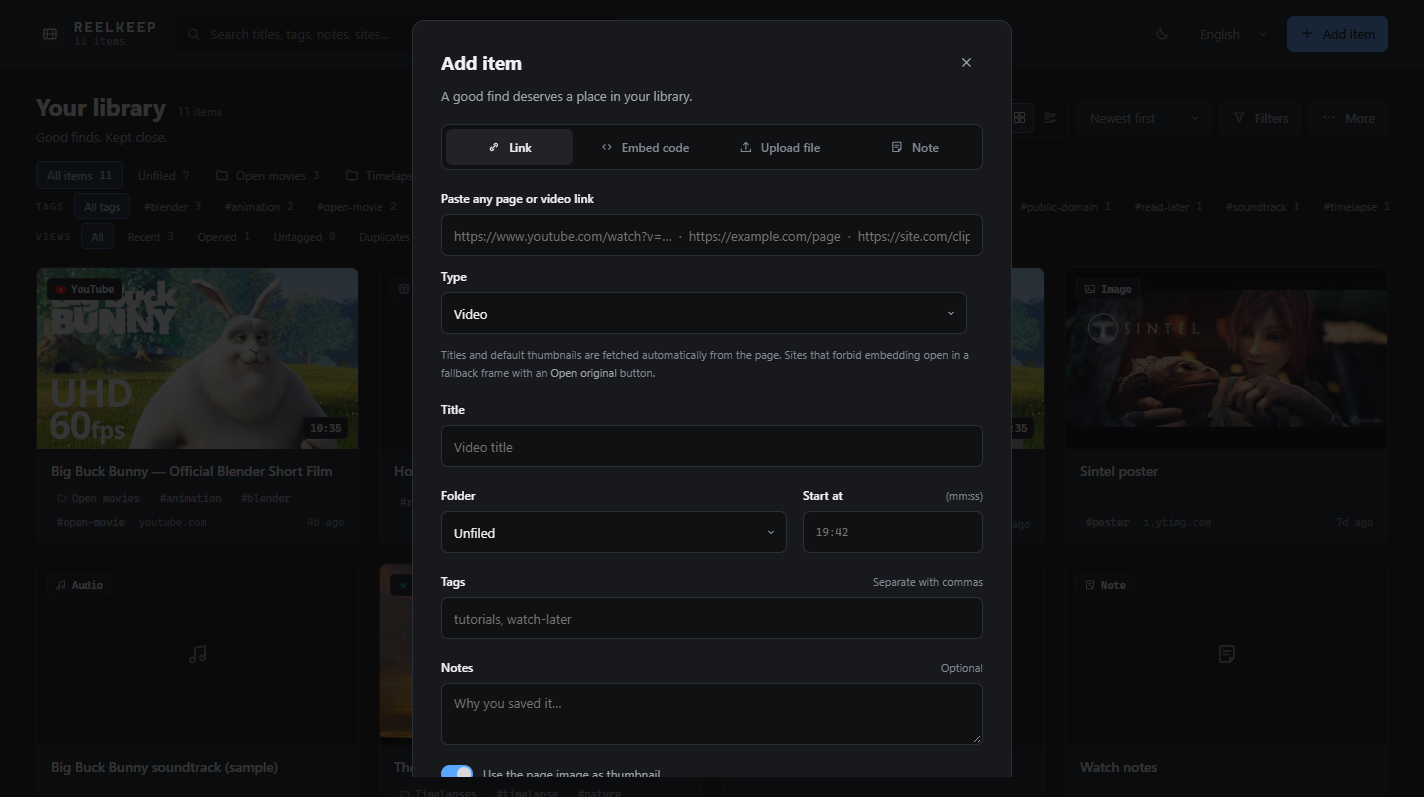
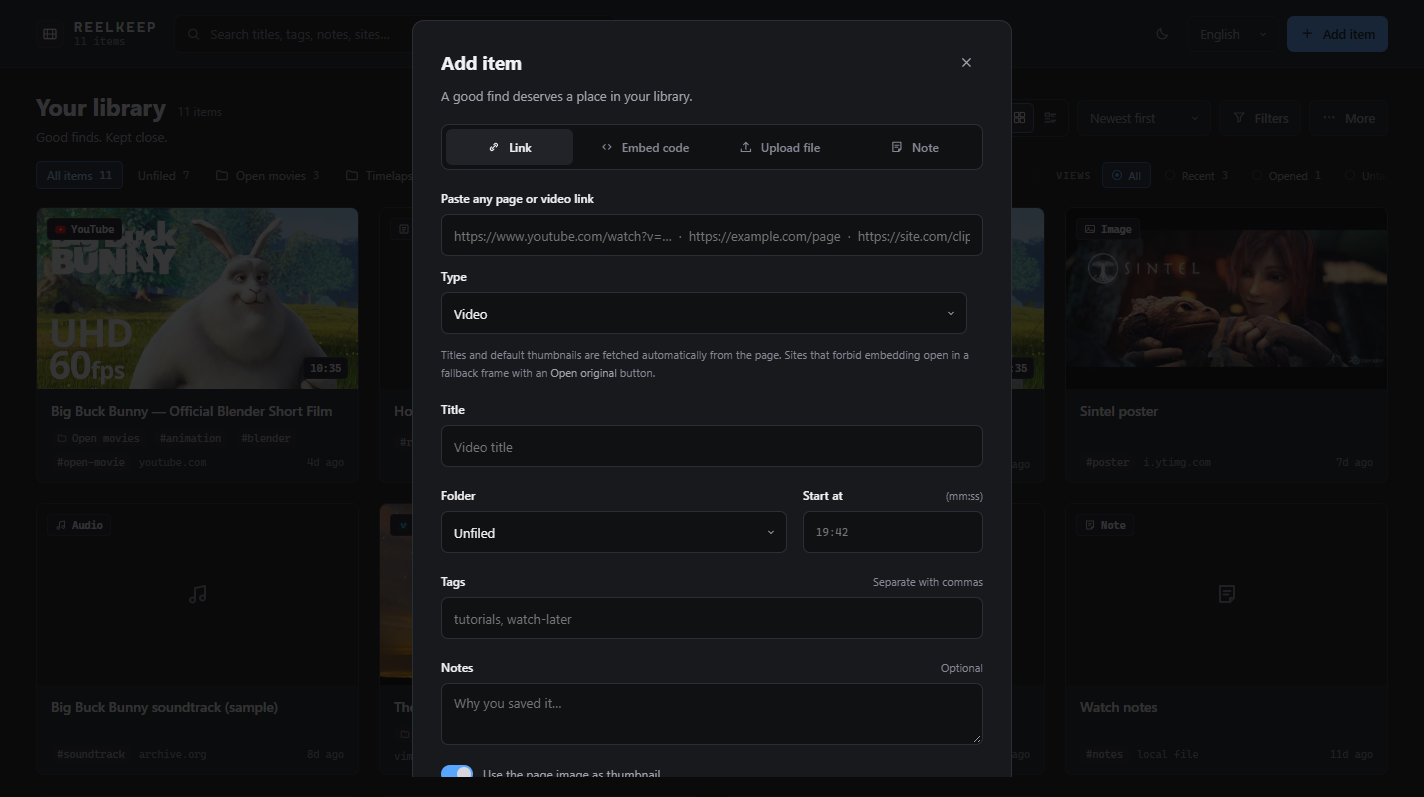
feat: filter console — one row, three segments; unmistakable multi-select tags (v2.6.0)

diff --git a/styles.css b/styles.css
@@ -245,6 +245,27 @@ select:hover { color: var(--text); border-color: var(--line-strong); }
 .icon-btn:hover { background: var(--panel-2); border-color: var(--line); color: var(--text); }
 .icon-btn.on { background: var(--accent-tint); border-color: var(--accent-line); color: var(--accent-soft); }
 
+/* ======================================================= filter console */
+/* One row, three scrollable segments separated by hairlines: folders | tags |
+   views. Selection grammar: checkbox square = multi (tags), dot = single
+   (views), tint = navigation (folders). ≤900px: folders full row, tags+views
+   share the second row side by side. */
+.filterconsole { display: flex; align-items: stretch; padding: 0 clamp(16px, 3vw, 36px); }
+.filterconsole .tagbar { flex: 1 1 0; min-width: 0; padding: 2px 14px; border-inline-end: 1px solid var(--line-soft); }
+.filterconsole .tagbar:first-child { padding-inline-start: 0; }
+.filterconsole .tagbar:last-child { border-inline-end: 0; padding-inline-end: 0; }
+.filterconsole .folderbar { flex: 1.3 1 0; }
+.filterconsole .tagbar:not(.folderbar):not(.smartbar) { flex: 1.6 1 0; }
+/* checkbox squares (multi-select) and dots (single-select) */
+.chip .box {
+  flex: none; width: 12px; height: 12px; border: 1px solid var(--line-strong); border-radius: 3px;
+  display: grid; place-items: center; color: transparent;
+}
+.chip .box svg { width: 9px; height: 9px; }
+.chip.on .box { background: var(--accent); border-color: var(--accent); color: var(--on-accent); }
+.chip .rad { flex: none; width: 10px; height: 10px; border: 1px solid var(--line-strong); border-radius: 50%; }
+.chip.on .rad { background: var(--accent); border-color: var(--accent); box-shadow: inset 0 0 0 2px var(--bg); }
+
 /* ======================================================= filter strips */
 /* One quiet register for all three strips: text chips in a single scrollable
    row (end fade signals overflow), boxes only for hover/active/drag states. */
@@ -785,6 +806,11 @@ input[type="range"]::-moz-range-thumb { width: 8px; height: 8px; border-radius: 
   .preview-thumb { flex: none; width: 100%; max-width: 300px; height: auto; aspect-ratio: 16 / 9; }
   .edit-body { flex-direction: column; }
   .preview-thumb.lg { width: 100%; max-width: 320px; flex: none; }
+  /* folders keep a full row; tags and views sit side by side below */
+  .filterconsole { flex-wrap: wrap; }
+  .filterconsole .folderbar { flex: 1 1 100%; border-inline-end: 0; border-bottom: 1px solid var(--line-soft); padding-inline: 0; }
+  .filterconsole .tagbar:not(.folderbar) { flex: 1 1 50%; }
+  .filterconsole .smartbar { border-inline-end: 0; padding-inline-end: 0; }
 }
 @media (max-width: 700px) {
   .topbar { min-height: 68px; gap: 10px; padding-inline: 24px; }
@@ -812,10 +838,8 @@ input[type="range"]::-moz-range-thumb { width: 8px; height: 8px; border-radius: 
   }
   .mobile-add svg { width: 20px; height: 20px; }
   .libhead { position: relative; }
-  .folderbar { flex-wrap: nowrap; overflow-x: auto; padding-inline: 24px; scrollbar-width: none; }
-  .folderbar::-webkit-scrollbar { display: none; }
-  .folderbar .chip { flex: none; }
-  .tagbar { padding-inline: 24px; }
+  .filterconsole { padding-inline: 24px; }
+  .filterconsole .folderbar { padding-inline: 0; }
   .grid { grid-template-columns: 1fr; gap: 16px; padding-inline: 24px; }
   .grid.list .card { flex-direction: column; height: auto; }
   .grid.list .thumb { width: auto; height: auto; aspect-ratio: 16 / 9; margin: 0; border: 0; border-radius: 0; border-bottom: 1px solid var(--line-soft); }

diff --git a/i18n.js b/i18n.js
@@ -3055,6 +3055,22 @@ const I18N_UI = {
 };
 for (const lang of Object.keys(I18N_UI)) Object.assign(I18N_LOCALES[lang], I18N_UI[lang]);
 
+/* Filter console: multi-select hint (v2.6.0). */
+const I18N_CONSOLE = {
+  en: { 'tags.multi': 'Tags are multi-select: an item must carry every selected tag.' },
+  ar: { 'tags.multi': 'الوسوم متعددة الاختيار: يجب أن يحمل العنصر كل وسم محدد.' },
+  ru: { 'tags.multi': 'Теги выбираются несколько: элемент должен содержать все выбранные теги.' },
+  fr: { 'tags.multi': 'Les étiquettes sont multi-sélection : l’élément doit porter toutes les étiquettes choisies.' },
+  de: { 'tags.multi': 'Tags sind mehrfach wählbar: Ein Element muss alle gewählten Tags tragen.' },
+  es: { 'tags.multi': 'Las etiquetas son de selección múltiple: el elemento debe tener todas las elegidas.' },
+  zh: { 'tags.multi': '标签可多选：条目须包含所有选中标签。' },
+  ja: { 'tags.multi': 'タグは複数選択：選択したすべてのタグを持つ項目が表示されます。' },
+  ko: { 'tags.multi': '태그는 다중 선택: 선택한 모든 태그를 가진 항목이 표시됩니다.' },
+  hi: { 'tags.multi': 'टैग बहु-चयन हैं: आइटम में सभी चुने गए टैग होने चाहिए।' },
+  tr: { 'tags.multi': 'Etiketler çoklu seçilir: öğe seçilen tüm etiketleri taşımalıdır.' },
+};
+for (const lang of Object.keys(I18N_CONSOLE)) Object.assign(I18N_LOCALES[lang], I18N_CONSOLE[lang]);
+
 const I18N_META = {
   en: { name: 'English', dir: 'ltr' },
   ar: { name: 'العربية', dir: 'rtl' },

diff --git a/index.html b/index.html
@@ -142,7 +142,11 @@
       </div>
     </section>
 
-    <nav id="folderbar" class="tagbar folderbar" aria-label="Folders"></nav>
+    <div class="filterconsole">
+      <nav id="folderbar" class="tagbar folderbar" aria-label="Folders"></nav>
+      <nav id="tagbar" class="tagbar" aria-label="Tag filters"></nav>
+      <nav id="smartbar" class="tagbar smartbar" aria-label="Smart views"></nav>
+    </div>
 
     <div id="folderActions" class="selectbar" hidden>
       <svg class="fa-icon"><use href="#i-folder" /></svg>
@@ -159,10 +163,6 @@
       <button type="button" class="btn primary" id="selMove"><svg><use href="#i-folder" /></svg> <span data-i18n="sel.move">Move to folder…</span></button>
       <button type="button" class="btn" id="selClear" data-i18n="sel.done">Done</button>
     </div>
-
-    <nav id="tagbar" class="tagbar" aria-label="Tag filters"></nav>
-
-    <nav id="smartbar" class="tagbar smartbar" aria-label="Smart views"></nav>
 
     <main id="grid" class="grid" aria-live="polite"></main>
 

diff --git a/test/library.test.js b/test/library.test.js
@@ -54,3 +54,16 @@ test('snapshot bumps the revision; init reads it back', async () => {
   lib.state.rev = 7;
   assert.equal(lib.snapshot().rev, 8);
 });
+
+test('tag filter is multi-select with match-all semantics', async () => {
+  const lib = await load('js/library.mjs');
+  const mk = (id, tags) => ({ id, type: 'note', title: id, url: '', tags, notes: '', createdAt: '2026-11-24T00:00:00.000Z', updatedAt: '2026-11-24T00:00:00.000Z', data: { body: 'x' } });
+  lib.state.items = [mk('i_ab', ['a', 'b']), mk('i_a', ['a']), mk('i_b', ['b']), mk('i_none', [])];
+  lib.state.folders = [];
+  lib.state.tags = new Set(['a']);
+  assert.deepEqual(lib.visibleItems().map((i) => i.id), ['i_ab', 'i_a']);
+  lib.state.tags = new Set(['a', 'b']);
+  assert.deepEqual(lib.visibleItems().map((i) => i.id), ['i_ab']);
+  lib.state.tags = new Set();
+  assert.equal(lib.visibleItems().length, 4);
+});

diff --git a/docs/ui-brief.md b/docs/ui-brief.md
@@ -113,11 +113,15 @@ blue. Execute these decisions exactly:
     heading row ("Your library" + count + tagline) carrying **five** labeled controls:
     Select, view toggle, sort, **Filters** popover (Group toggle + source + type),
     **More** popover (Export, Import). A dot on Filters marks active filters.
-    Below: three single-row quiet filter strips (folders / tags / smart views),
-    text chips in one scrollable row with an end fade; boxes only for
-    hover/active/drag. Mobile collapses the five controls into an overflow menu
-    where popovers unfold inline. Never add a sixth toolbar control or a fourth
-    strip — put it in a popover or a strip.
+    Below: **one filter console row** (v2.6.0) — three scrollable segments
+    separated by hairlines: FOLDERS | TAGS | VIEWS, each with its mono micro-label
+    and an end fade. **Selection grammar:** checkbox square = multi-select (tags,
+    match-all, live "· n" count in the label), dot = single-select (views),
+    accent tint = navigation (folders). ≤900px: folders keep a full row and
+    tags+views share the second row side by side — never three stacked rows.
+    Mobile collapses the five toolbar controls into an overflow menu where
+    popovers unfold inline. Never add a sixth toolbar control or a fourth
+    segment — put it in a popover or an existing segment.
 
 **Two themes, one identity.** Dark is the screening room; light ("paper") obeys the
 same corners, hairlines, mono slates and single accent, darkened for AA on paper
@@ -173,10 +177,14 @@ Type scale: body 13, card title 13 (list 15), dialog h2 15, micro 10–11 mono, 
   `#filtersBtn`→`#filtersPop` (contains `#groupBtn`, `#providerSel`, `#typeSel`),
   `#moreBtn`→`#morePop` (contains `#exportBtn`, `#importBtn`). Popovers are floating
   panels (shadow allowed); on mobile they unfold inline inside the overflow panel.
-- **Filter strips** (`#folderbar`, `#tagbar`, `#smartbar`): one quiet register,
-  single scrollable row, end fade; `flex: none` is required — `overflow-x: auto`
-  removes the automatic minimum size and the body column would shrink them to
-  slivers (v2.5.0 regression, fixed).
+- **Filter console** (`.filterconsole` wrapping `#folderbar`, `#tagbar`,
+  `#smartbar`): one row, three scrollable segments with hairline dividers and end
+  fades; quiet text chips, boxes only for hover/active/drag. Tag chips carry a
+  checkbox square (`.box`, multi-select, `aria-pressed`), view chips a dot
+  (`.rad`, single-select). `flex: none` on the strips is required —
+  `overflow-x: auto` removes the automatic minimum size and the body column
+  would shrink them to slivers (v2.5.0 regression, fixed). The conditional
+  `#folderActions` / `#selectbar` bars live OUTSIDE the console wrapper.
 - **Folder bar** (`#folderbar`): squared chips *All videos*, *Unfiled*, folders (icon +
   name + mono count), dashed *New folder*; folder chips are comfortable at rest
   (6px/12px padding, 12.5px). **Drop targets**: while dragging (`body.drag-ids`) the bar

diff --git a/CHANGELOG.md b/CHANGELOG.md
@@ -4,6 +4,28 @@ All notable changes to this project are documented here. The format follows
 [Keep a Changelog](https://keepachangelog.com/en/1.1.0/); versions follow
 [SemVer](https://semver.org/).
 
+## [2.6.0] - 2026-11-24
+
+The filter console: one row instead of three stacked strips, and multi-select
+tags that look multi-select.
+
+### Changed
+- **Filter console**: folders, tags and smart views now share ONE row as three
+  scrollable, hairline-separated segments (FOLDERS | TAGS | VIEWS) with mono
+  micro-labels and end fades. ≤900px: folders keep a full row, tags and views sit
+  side by side on a second row — never three stacked rows again.
+- **Selection grammar**: checkbox squares on tag chips (multi-select), dots on
+  view chips (single-select), accent tint for folder navigation. Tag selection
+  was always multi-select in logic; now it is unmistakable: checked squares,
+  `aria-pressed`, a live "TAGS · n" count and a translated hint (match-all).
+- Conditional folder/selection action bars moved outside the console wrapper so
+  they stay full-width.
+
+### Verified
+- Headless probe: all three segments on one row (identical offsets); selecting
+  two tags keeps both checked and filters with match-all; reset clears; mobile
+  two-row layout; RTL and light themes unaffected. 80/80 tests.
+
 ## [2.5.0] - 2026-11-24
 
 Calmer chrome and a first-class light theme. No behaviour or API changes.
